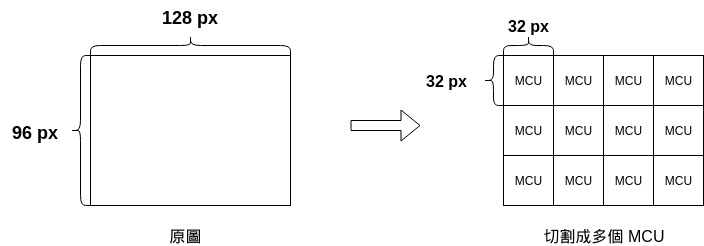
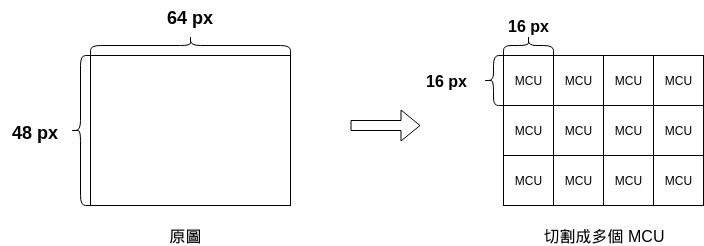
解說 MCU 組成、SOF0 區段

diff --git a/README.md b/README.md
@@ -16,7 +16,7 @@
 - [（一）概述](https://github.com/MROS/jpeg_tutorial/blob/master/doc/%E8%B7%9F%E6%88%91%E5%AF%ABjpeg%E8%A7%A3%E7%A2%BC%E5%99%A8%EF%BC%88%E4%B8%80%EF%BC%89%E6%A6%82%E8%BF%B0.md)：簡介 JPEG 解碼流程
 - [（二）讀取區段](https://github.com/MROS/jpeg_tutorial/blob/master/doc/%E8%B7%9F%E6%88%91%E5%AF%ABjpeg%E8%A7%A3%E7%A2%BC%E5%99%A8%EF%BC%88%E4%BA%8C%EF%BC%89%E6%AA%94%E6%A1%88%E7%B5%90%E6%A7%8B.md)：簡介 JPEG 檔案結構
 - [（三）讀取量化表、霍夫曼表](https://github.com/MROS/jpeg_tutorial/blob/master/doc/%E8%B7%9F%E6%88%91%E5%AF%ABjpeg%E8%A7%A3%E7%A2%BC%E5%99%A8%EF%BC%88%E4%B8%89%EF%BC%89%E8%AE%80%E5%8F%96%E9%87%8F%E5%8C%96%E8%A1%A8%E3%80%81%E9%9C%8D%E5%A4%AB%E6%9B%BC%E8%A1%A8.md)
-- （四）讀取壓縮圖像數據
+- [（四）讀取壓縮圖像數據](https://github.com/MROS/jpeg_tutorial/blob/master/doc/%E8%B7%9F%E6%88%91%E5%AF%ABjpeg%E8%A7%A3%E7%A2%BC%E5%99%A8%EF%BC%88%E5%9B%9B%EF%BC%89%E8%AE%80%E5%8F%96%E5%A3%93%E7%B8%AE%E5%9C%96%E5%83%8F%E6%95%B8%E6%93%9A.md)
 - （五）解碼
 - （附錄一）理論基礎
 

diff --git a/doc/跟我寫jpeg解碼器（三）讀取量化表、霍夫曼表.md b/doc/跟我寫jpeg解碼器（三）讀取量化表、霍夫曼表.md
@@ -112,6 +112,8 @@
 
 全部解碼完成，應該會得到下表，你可以對照以確認自己理解了霍夫曼樹的建構過程。
 
+注意到，**葉子的高度就等同於碼字的長度**。
+
 | 葉子節點序號 | 碼字長度 | 碼字    | 信源編碼 |
 |--------------|----------|---------|----------|
 | 1            | 2        | 00      | 0x00     |
